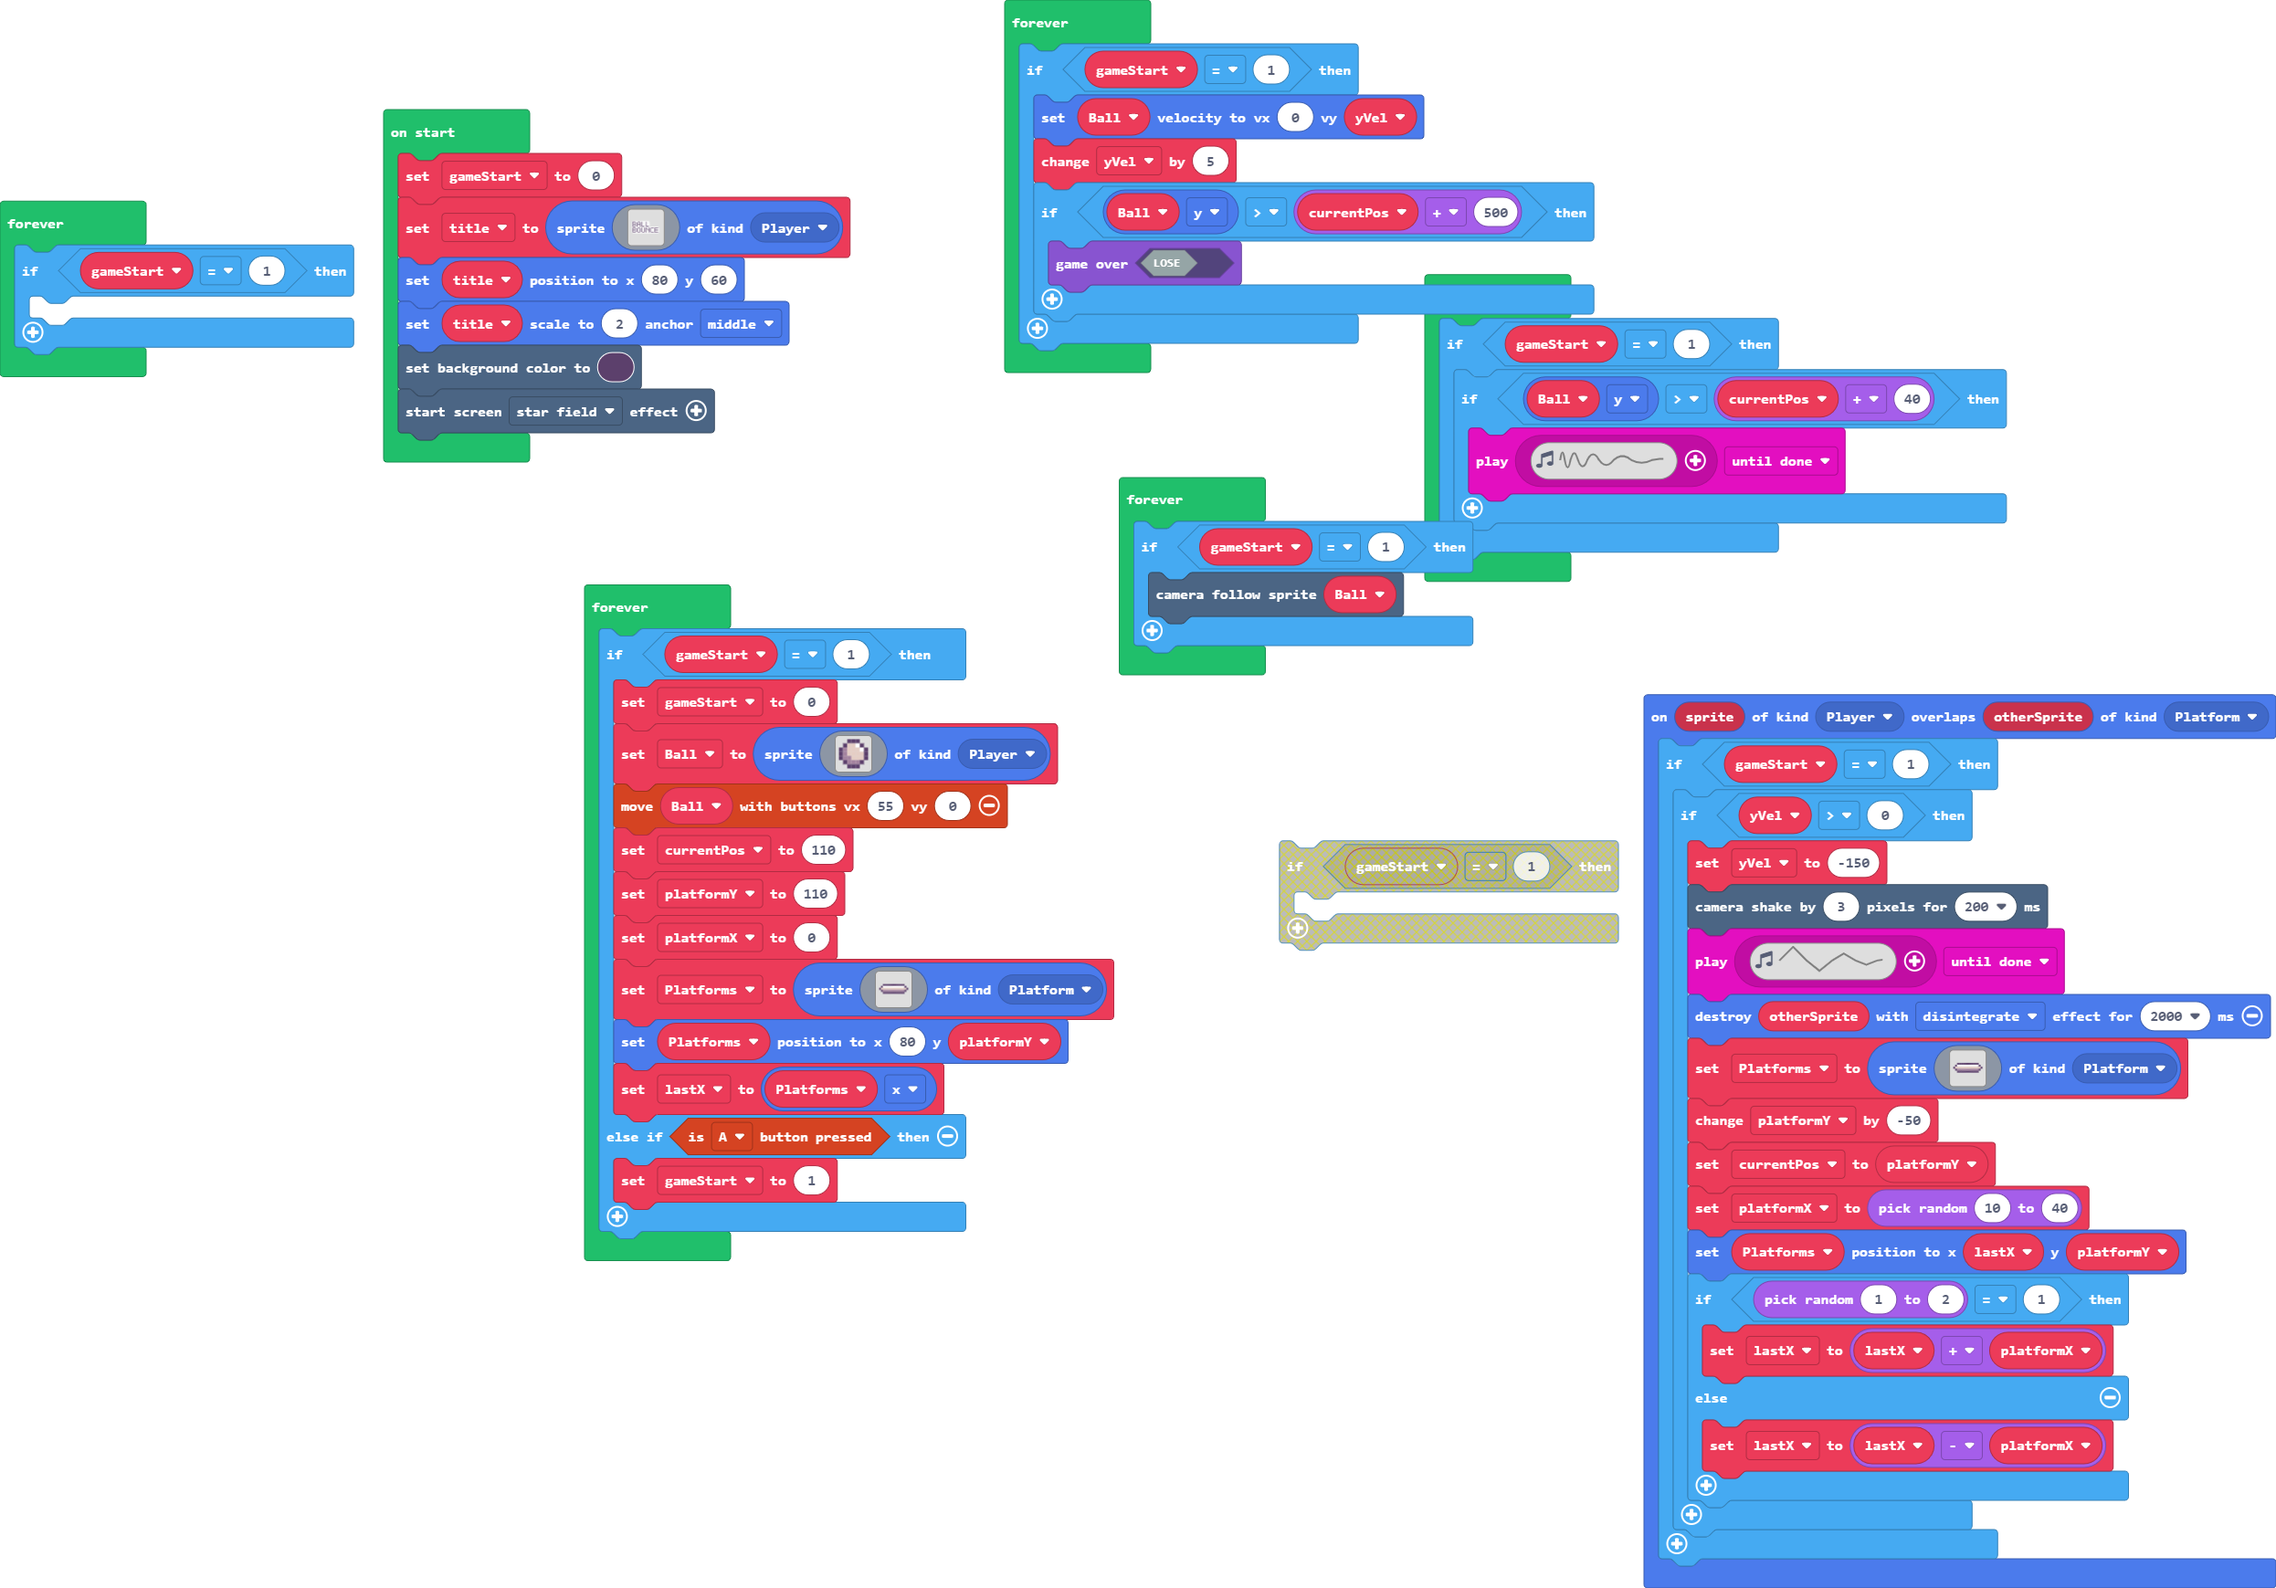
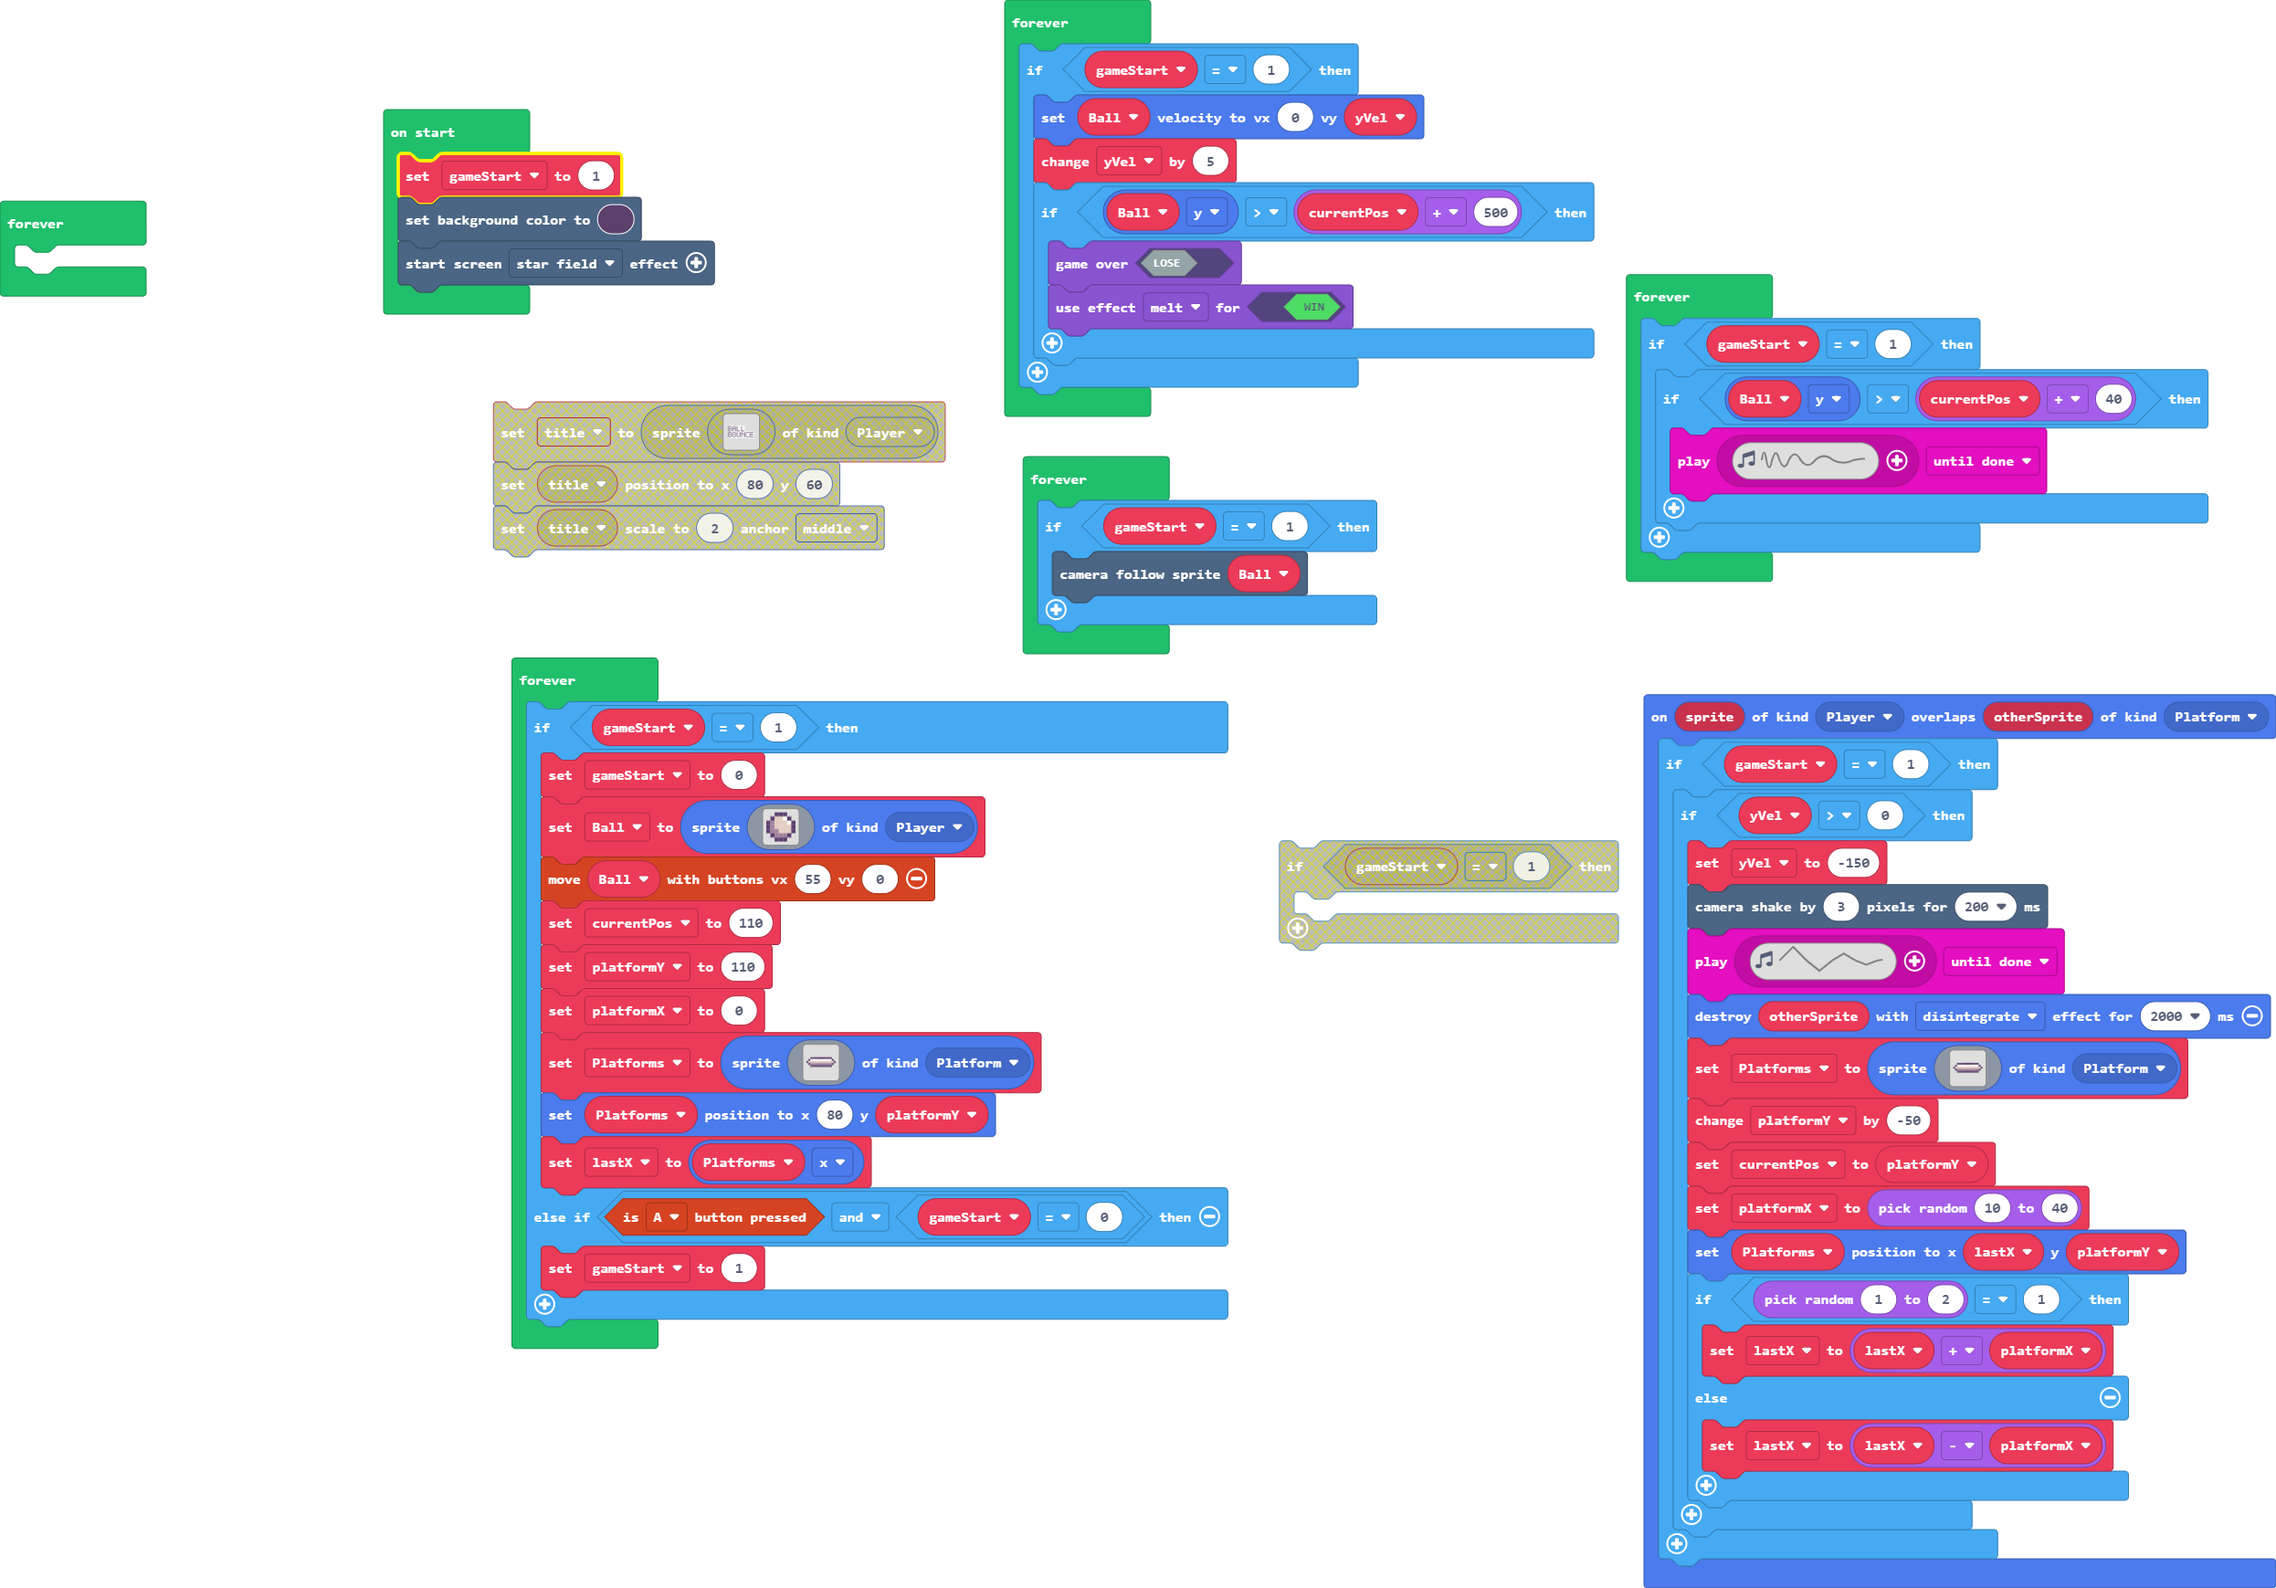
up

Changed region(s): [[0.0, 0.0932, 0.9888, 0.8695]]

diff --git a/main.ts b/main.ts
@@ -35,28 +35,7 @@ let platformY = 0
 let Platforms: Sprite = null
 let yVel = 0
 let gameStart = 0
-gameStart = 0
-let title = sprites.create(img`
-    ..1111111111111111111111................
-    .1cccc111ccc11c11111c111................
-    .1c111c1c111c1c11111c1111...............
-    .1c111c1c111c1c11111c1111...............
-    .1cccc11ccccc1c11111c1111...............
-    .1c111c1c111c1c11111c1111...............
-    .1c111c1c111c1c11111c1111...............
-    .1cccc11c111c1cccc11cccc1...............
-    .111111111111111111111111111111111111...
-    .1cccc111ccc11c111c1c111c11cccc1ccccc1..
-    .1c111c1c111c1c111c1cc11c1c11111c11111..
-    .1c111c1c111c1c111c1c1c1c1c11111c11111..
-    .1cccc11c111c1c111c1c11cc1c11111ccccc1..
-    .1c111c1c111c1c111c1c111c1c11111c11111..
-    .1c111c1c111c1c111c1c111c1c11111c11111..
-    .1cccc111ccc111ccc11c111c11cccc1ccccc1..
-    ..11111111111111111111111111111111111...
-    `, SpriteKind.Player)
-title.setPosition(80, 60)
-title.setScale(2, ScaleAnchor.Middle)
+gameStart = 1
 scene.setBackgroundColor(12)
 effects.starField.startScreenEffect()
 forever(function () {
@@ -65,13 +44,12 @@ forever(function () {
         yVel += 5
         if (Ball.y > currentPos + 500) {
             game.gameOver(false)
+            game.setGameOverEffect(true, effects.melt)
         }
     }
 })
 forever(function () {
-    if (gameStart == 1) {
-    	
-    }
+	
 })
 forever(function () {
     if (gameStart == 1) {
@@ -110,7 +88,7 @@ forever(function () {
             `, SpriteKind.Platform)
         Platforms.setPosition(80, platformY)
         lastX = Platforms.x
-    } else if (controller.A.isPressed()) {
+    } else if (controller.A.isPressed() && gameStart == 0) {
         gameStart = 1
     }
 })
